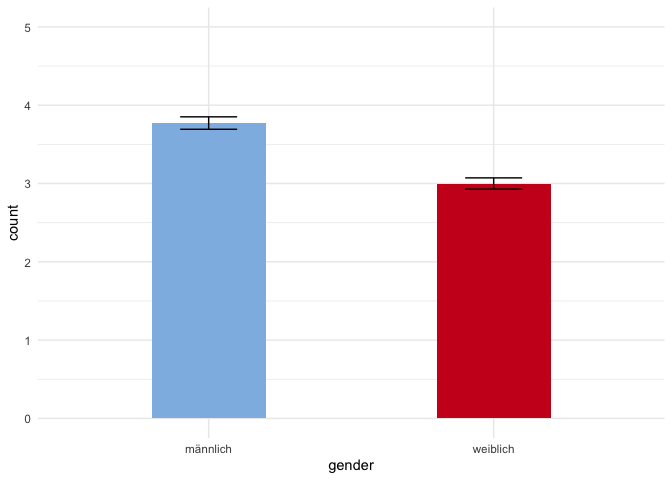
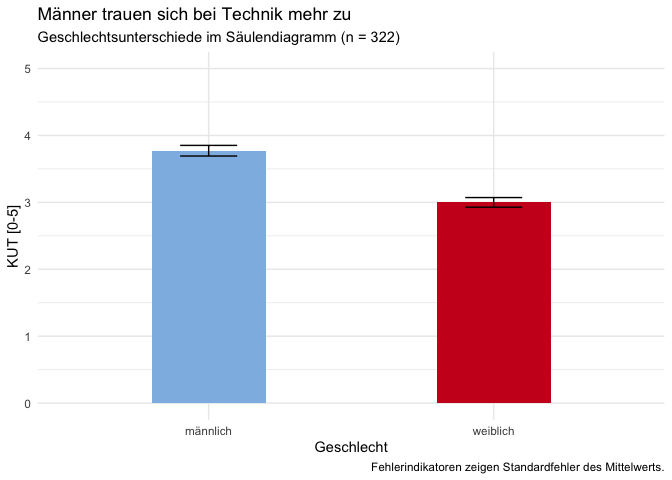
Änderungen

diff --git a/JulianHildebrandt/Diagramme_HildebrandtCalero.md b/JulianHildebrandt/Diagramme_HildebrandtCalero.md
@@ -22,19 +22,17 @@ Nach Anpassungen:
       geom_bar(fill = c(rwthfarben$lightblue, rwthfarben$red), width = 0.4) +
       geom_errorbar(width = 0.2) +
       scale_y_continuous(limits = c(0,5)) +
-      #labs(x = "Geschlecht", 
-      #     y = "KUT [0-5]", 
-      #     title = "Männer trauen sich bei Technik mehr zu", 
-      #     subtitle = "Geschlechtsunterschiede im Säulendiagramm", 
-      #     caption = "Fehlerindikatoren zeigen Standardfehler des Mittelwerts.") +
+      labs(x = "Geschlecht", 
+           y = "KUT [0-5]", 
+           title = "Männer trauen sich bei Technik mehr zu", 
+           subtitle = "Geschlechtsunterschiede im Säulendiagramm (n = 322)", 
+           caption = "Fehlerindikatoren zeigen Standardfehler des Mittelwerts.") +
       theme_minimal() +
       NULL
 
 ![](Diagramme_HildebrandtCalero_files/figure-markdown_strict/unnamed-chunk-2-1.png)
 
-    ggsave("Diagramm_HildebrandtCalero2.pdf")
-
-    ## Saving 7 x 5 in image
+    ggsave("Diagramm.pdf", width = 5, height = 4)
 
     devtools::install_github("HCIC/r-tools")
 
@@ -66,3 +64,26 @@ Nach Anpassungen:
     ## NULL
 
     ggsave("Diagramm_GaneshabalanStuhlmannKlein.pdf", width = 210, height = 297, units = "mm")
+
+
+    datensatz %>%
+     filter(gender !="keine Angabe") %>%
+     group_by(gender) %>%
+     summarise(robo_hair_wash_m = mean(robo_hair_wash, na.rm= T),
+               robo_hair_wash_sem = std.error(robo_hair_wash)) %>%
+    ggplot() +
+      aes(x = gender, weight = robo_hair_wash_m, ymin = robo_hair_wash_m - robo_hair_wash_sem, ymax = robo_hair_wash_m + robo_hair_wash_sem) +
+      geom_bar(fill = c(rwthfarben$lightblue, rwthfarben$red), width = 0.4) +
+      geom_errorbar(width = 0.2) +
+      scale_y_continuous(limits = c(0,5)) +
+     labs(x = "Geschlecht",
+          y = "robo_hair_wash [0-5]",
+          title = "Männer lassen lieber Haare von Roboter waschen",
+          subtitle = "Geschlechtsunterschiede im Säulendiagramm",
+          caption = "Fehlerindikatoren zeigen Standardfehler des Mittelwerts.") +
+     theme_linedraw() +
+      NULL
+
+![](Diagramme_HildebrandtCalero_files/figure-markdown_strict/unnamed-chunk-3-2.png)
+
+     # aes(x = gender, weight = robo_hair_wash_m, ymin = robo_hair_wash_m-robo_hair_wash_sem, ymax = robo_hair_wash_m+robo_hair_wash_sem, fill = gender) +
